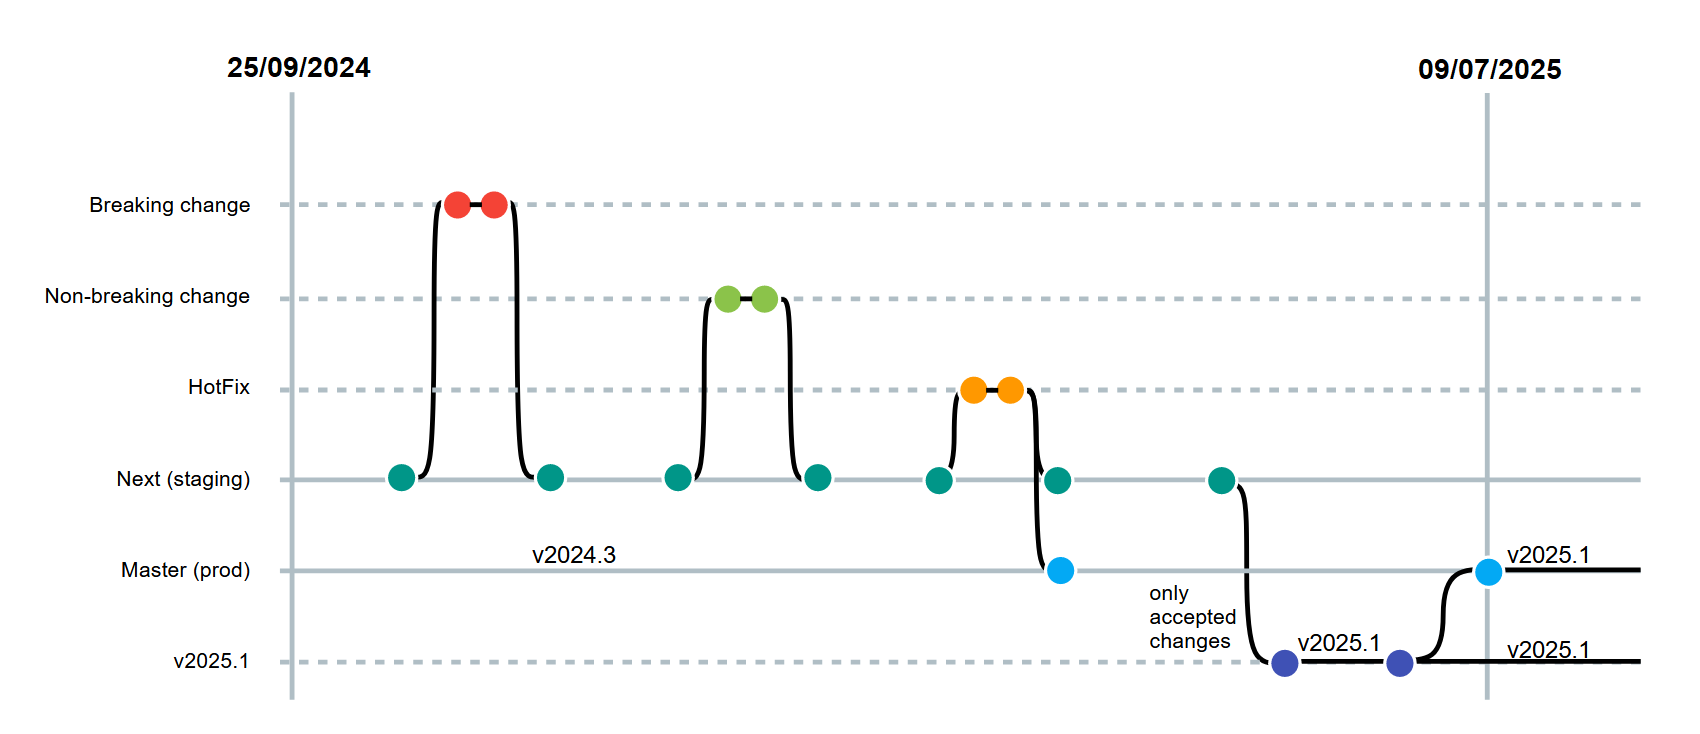
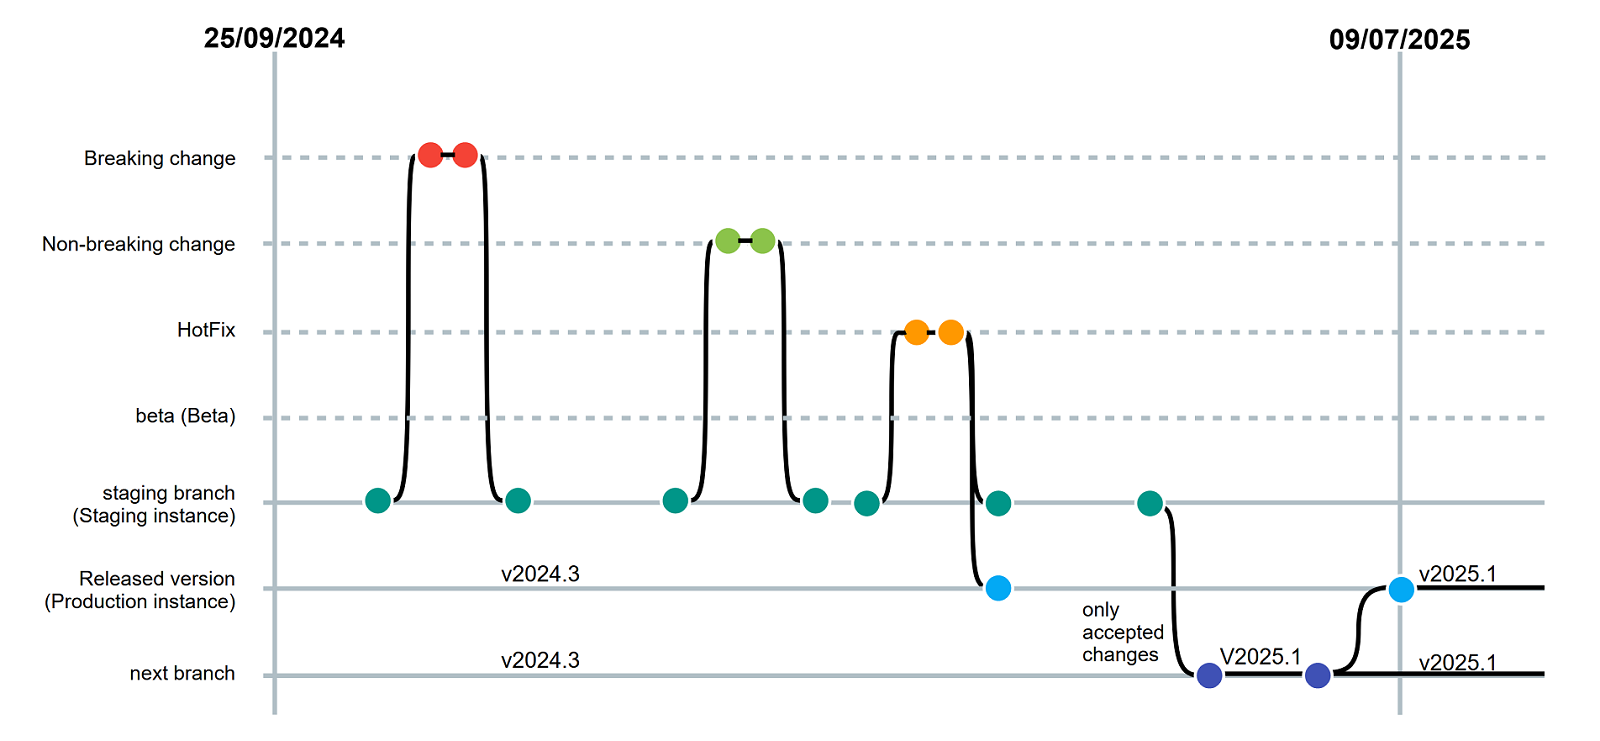
Merge pull request #1220 from jenriquesoriano/release-strategy-update
Update release strategy. Clarifications on branches and instances

Pull request: Update release strategy. Clarifications on branches and instances
Update release strategy. Clarifications on branches and instances workflow.

diff --git a/release strategy/README.md b/release strategy/README.md
@@ -38,8 +38,10 @@ For simplicity, the descriptions make explicit reference to the release in the y
 * **v2025.1 - 09/07/2025**: it includes both breaking and non-breaking changes. This release is the one used for the end-of-year Monitoring process.
 
 ### v2025.1 - 09/07/2025
-This release is scheduled on 09/07/2025 and includes the breaking and non-breaking changes occurred since the previous release (v2024.3). All these changes (each managed in a dedicated branch) are first incorporated in the _staging_ branch, i.e. they are made available in the Staging instance; afterwards, each change which is also tested and accepted by the user who originally reported it, is also incorporated in the _v2025.1_ branch. This branch is finally merged into the _master_ branch, which will make all changes available in the Production instance. Should hotfixes be needed at any time, they are immediately incorporated both in the _staging_ and the _master_ branches.
+This release is scheduled on 09/07/2025 and includes the breaking and non-breaking changes occurred since the previous release (v2024.3). All these changes (each managed in a dedicated branch) are first incorporated in the _staging_ branch, i.e. they are made available in the Staging instance; afterwards, each change which is also tested and accepted by the user who originally reported it, is also incorporated in the _next_ branch, thus making all upcoming and confirmed changes available to the community before the release. The _v2025.1_ branch is then created from _next_, incorporated into the release, and deployed in the Production instance. Should hotfixes be needed at any time, they are immediately incorporated both in the _staging_ and the _next_ branches, and made available in the Staging and Production instances accordingly.
 ![v2025.1](./img/v2025.1.png "v2025.1")
+
+
 
 # Release Delivery
 Each release of the INSPIRE Reference Validator is fully managed and made available to the INSPIRE community through the following set of GitHub artifacts: 